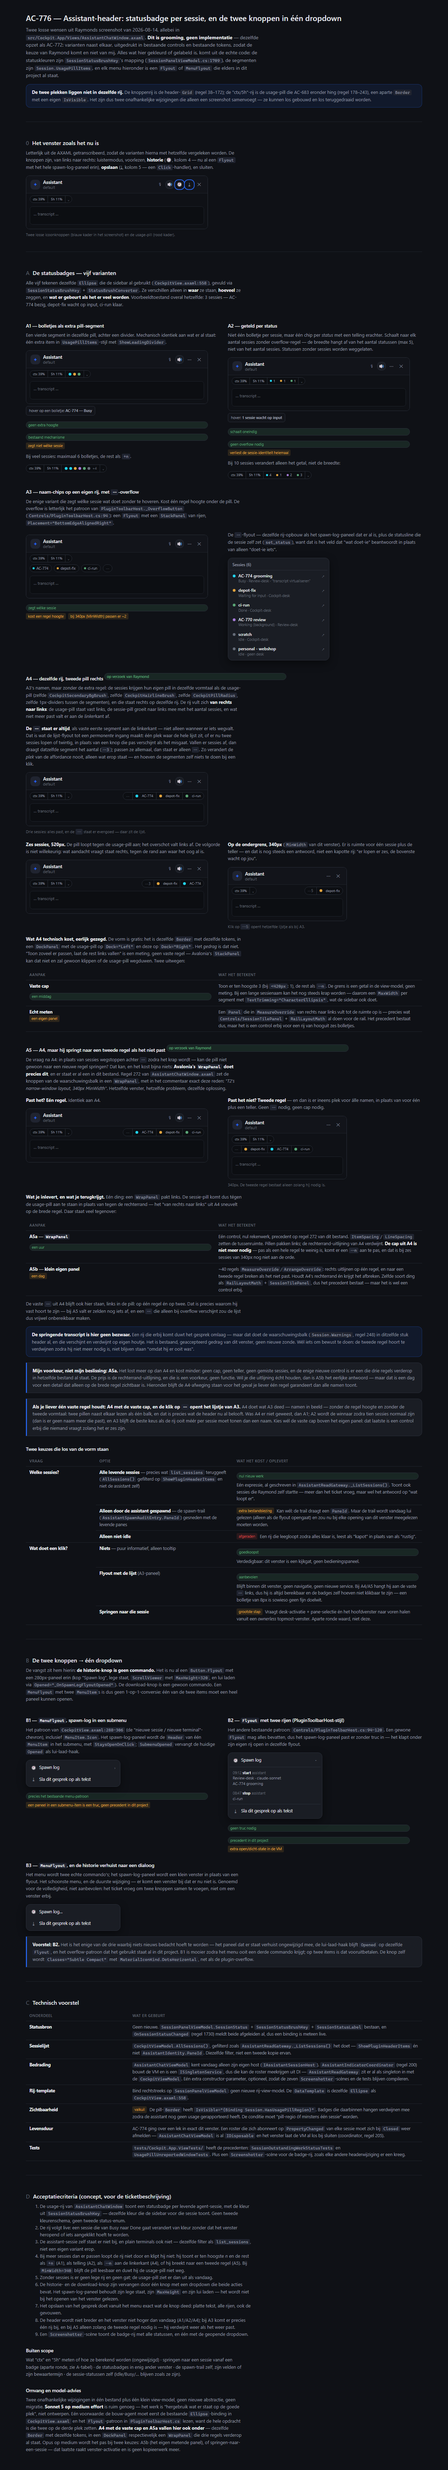
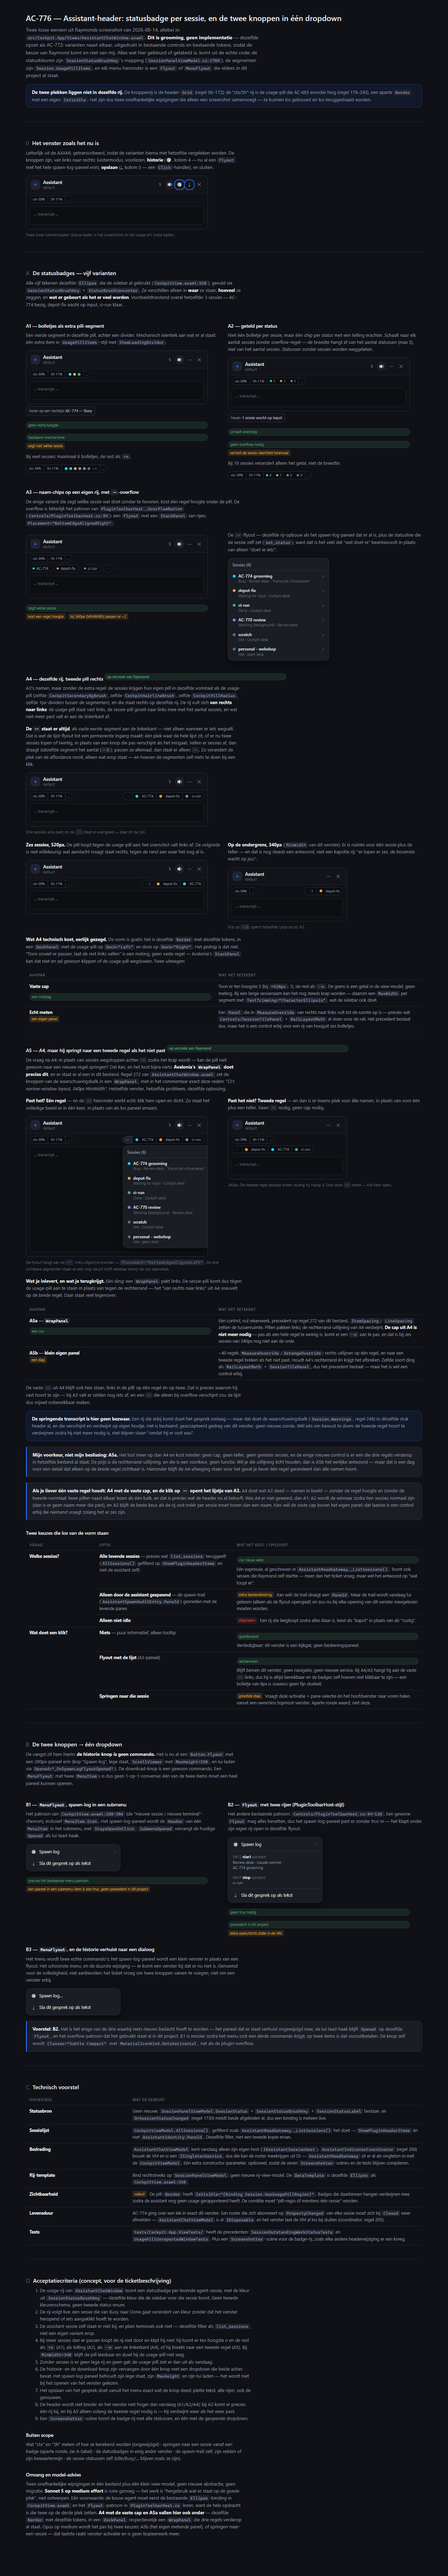
AC-776: maak de ... in A5 echt aanklikbaar, met de sessielijst eronder
Native <details>, geen JS — zelfde truc als de accordion in AC-772's mockup.
De brede A5 staat open zodat de render het volledige beeld toont; de smalle
(340px) is dicht maar klikt open, zodat ook de afgebroken toestand compleet is.
De pill geeft daarvoor zijn overflow:hidden op, anders klipt hij het paneel weg;
de buitenste segmenten krijgen hun ronding met de hand.

diff --git a/docs/mockups/ac-776-assistant-header-2026-08-14.html b/docs/mockups/ac-776-assistant-header-2026-08-14.html
@@ -79,6 +79,20 @@
      alleen de 1px-divider scheidt het van zijn buurman, geen tweede rand op een rand. */
   .pill .seg.ovf{border:0;border-radius:0;background:none;padding:2px 8px;
                  color:var(--text-faint);letter-spacing:1px}
+
+  /* A5: hier is de ⋯ écht aanklikbaar, met native <details> — geen JS, zelfde truc als de
+     accordion in AC-772's mockup. De pill moet dan zijn overflow:hidden opgeven (anders klipt
+     hij het paneel weg), dus krijgen de buitenste segmenten hun ronding met de hand. */
+  .pill.host{overflow:visible;position:relative}
+  details.flyhost{display:flex}
+  details.flyhost>summary{list-style:none;cursor:pointer;display:flex;align-items:center;
+       font-size:10px;padding:2px 9px;color:var(--text-faint);letter-spacing:1px;user-select:none;
+       border-radius:var(--pill-r) 0 0 var(--pill-r)}
+  details.flyhost>summary::-webkit-details-marker{display:none}
+  details.flyhost>summary:hover{background:var(--inset);color:var(--text-2)}
+  details.flyhost[open]>summary{background:var(--inset);color:var(--text)}
+  details.flyhost .fly{position:absolute;top:calc(100% + 6px);left:0;z-index:20;margin:0}
+  .pill.host .seg:last-child{border-radius:0 var(--pill-r) var(--pill-r) 0}
   .pill{display:inline-flex;align-items:stretch;background:var(--secondary);border:1px solid var(--hairline);
         border-radius:var(--pill-r);overflow:hidden}
   .seg{font-size:10px;padding:2px 8px;display:flex;align-items:center;color:var(--text-2);white-space:nowrap}
@@ -440,7 +454,8 @@ hetzelfde probleem, dezelfde oplossing.</p>
 
 <div class="cols">
 <div class="col">
-<p class="note"><b>Past het? Eén regel.</b> Identiek aan A4.</p>
+<p class="note"><b>Past het? Eén regel</b> — en de <code>⋯</code> hieronder werkt echt: klik hem open en dicht.
+Zo staat het volledige beeld er in één keer, in plaats van als los paneel ernaast.</p>
 <div class="win">
   <div class="hdr">
     <div class="avatar">✦</div>
@@ -453,16 +468,43 @@ hetzelfde probleem, dezelfde oplossing.</p>
         <div class="seg">ctx 39%</div><div class="div"></div>
         <div class="seg">5h 11%</div><div class="div"></div><div class="chev">⌄</div>
       </div>
-      <div class="pill">
-        <div class="seg ovf">⋯</div><div class="div"></div>
+      <div class="pill host">
+        <details class="flyhost" open>
+          <summary>⋯</summary>
+          <div class="fly wide">
+            <div class="fly-h">Sessies (6)</div>
+            <div class="fly-hr"></div>
+            <div class="srow"><span class="dot busy" style="margin-top:4px"></span>
+              <div class="meta"><div class="t">AC-774 grooming</div><div class="s">Busy · Review-desk · "transcript virtualiseren"</div></div>
+              <div class="go">↗</div></div>
+            <div class="srow"><span class="dot waiting" style="margin-top:4px"></span>
+              <div class="meta"><div class="t">depot-fix</div><div class="s">Waiting for input · Cockpit-desk</div></div>
+              <div class="go">↗</div></div>
+            <div class="srow"><span class="dot done" style="margin-top:4px"></span>
+              <div class="meta"><div class="t">ci-run</div><div class="s">Done · Cockpit-desk</div></div>
+              <div class="go">↗</div></div>
+            <div class="srow"><span class="dot bg" style="margin-top:4px"></span>
+              <div class="meta"><div class="t">AC-770 review</div><div class="s">Working (background) · Review-desk</div></div>
+              <div class="go">↗</div></div>
+            <div class="srow"><span class="dot idle" style="margin-top:4px"></span>
+              <div class="meta"><div class="t">scratch</div><div class="s">Idle · Cockpit-desk</div></div>
+              <div class="go">↗</div></div>
+            <div class="srow"><span class="dot idle" style="margin-top:4px"></span>
+              <div class="meta"><div class="t">personal - webshop</div><div class="s">Idle · geen desk</div></div>
+              <div class="go">↗</div></div>
+          </div>
+        </details>
+        <div class="div"></div>
         <div class="seg nm"><span class="dot busy"></span>AC-774</div><div class="div"></div>
         <div class="seg nm"><span class="dot waiting"></span>depot-fix</div><div class="div"></div>
         <div class="seg nm"><span class="dot done"></span>ci-run</div>
       </div>
     </div>
-    <div class="transcript">… transcript …</div>
+    <div class="transcript" style="min-height:300px">… transcript …</div>
   </div>
 </div>
+<p class="cap">De flyout hangt aan de <code>⋯</code>, links uitgelijnd eronder — <code>Placement="BottomEdgeAlignedLeft"</code>.
+De drie zichtbare segmenten staan er ook nog: de pill blijft leesbaar terwijl de lijst openstaat.</p>
 </div>
 <div class="col">
 <p class="note"><b>Past het niet? Tweede regel</b> — en dan is er ineens plek voor álle namen, in plaats van voor
@@ -481,8 +523,24 @@ hetzelfde probleem, dezelfde oplossing.</p>
       </div>
     </div>
     <div class="pillrow">
-      <div class="pill">
-        <div class="seg ovf">⋯</div><div class="div"></div>
+      <div class="pill host">
+        <details class="flyhost">
+          <summary>⋯</summary>
+          <div class="fly">
+            <div class="fly-h">Sessies (3)</div>
+            <div class="fly-hr"></div>
+            <div class="srow"><span class="dot waiting" style="margin-top:4px"></span>
+              <div class="meta"><div class="t">depot-fix</div><div class="s">Waiting for input · Cockpit-desk</div></div>
+              <div class="go">↗</div></div>
+            <div class="srow"><span class="dot busy" style="margin-top:4px"></span>
+              <div class="meta"><div class="t">AC-774 grooming</div><div class="s">Busy · Review-desk</div></div>
+              <div class="go">↗</div></div>
+            <div class="srow"><span class="dot done" style="margin-top:4px"></span>
+              <div class="meta"><div class="t">ci-run</div><div class="s">Done · Cockpit-desk</div></div>
+              <div class="go">↗</div></div>
+          </div>
+        </details>
+        <div class="div"></div>
         <div class="seg nm"><span class="dot waiting"></span>depot-fix</div><div class="div"></div>
         <div class="seg nm"><span class="dot busy"></span>AC-774</div><div class="div"></div>
         <div class="seg nm"><span class="dot done"></span>ci-run</div>
@@ -491,7 +549,7 @@ hetzelfde probleem, dezelfde oplossing.</p>
     <div class="transcript">… transcript …</div>
   </div>
 </div>
-<p class="cap">340px. De tweede regel bestaat alleen zolang hij nodig is.</p>
+<p class="cap">340px. De tweede regel bestaat alleen zolang hij nodig is. Ook deze <code>⋯</code> werkt — klik hem open.</p>
 </div>
 </div>
 
